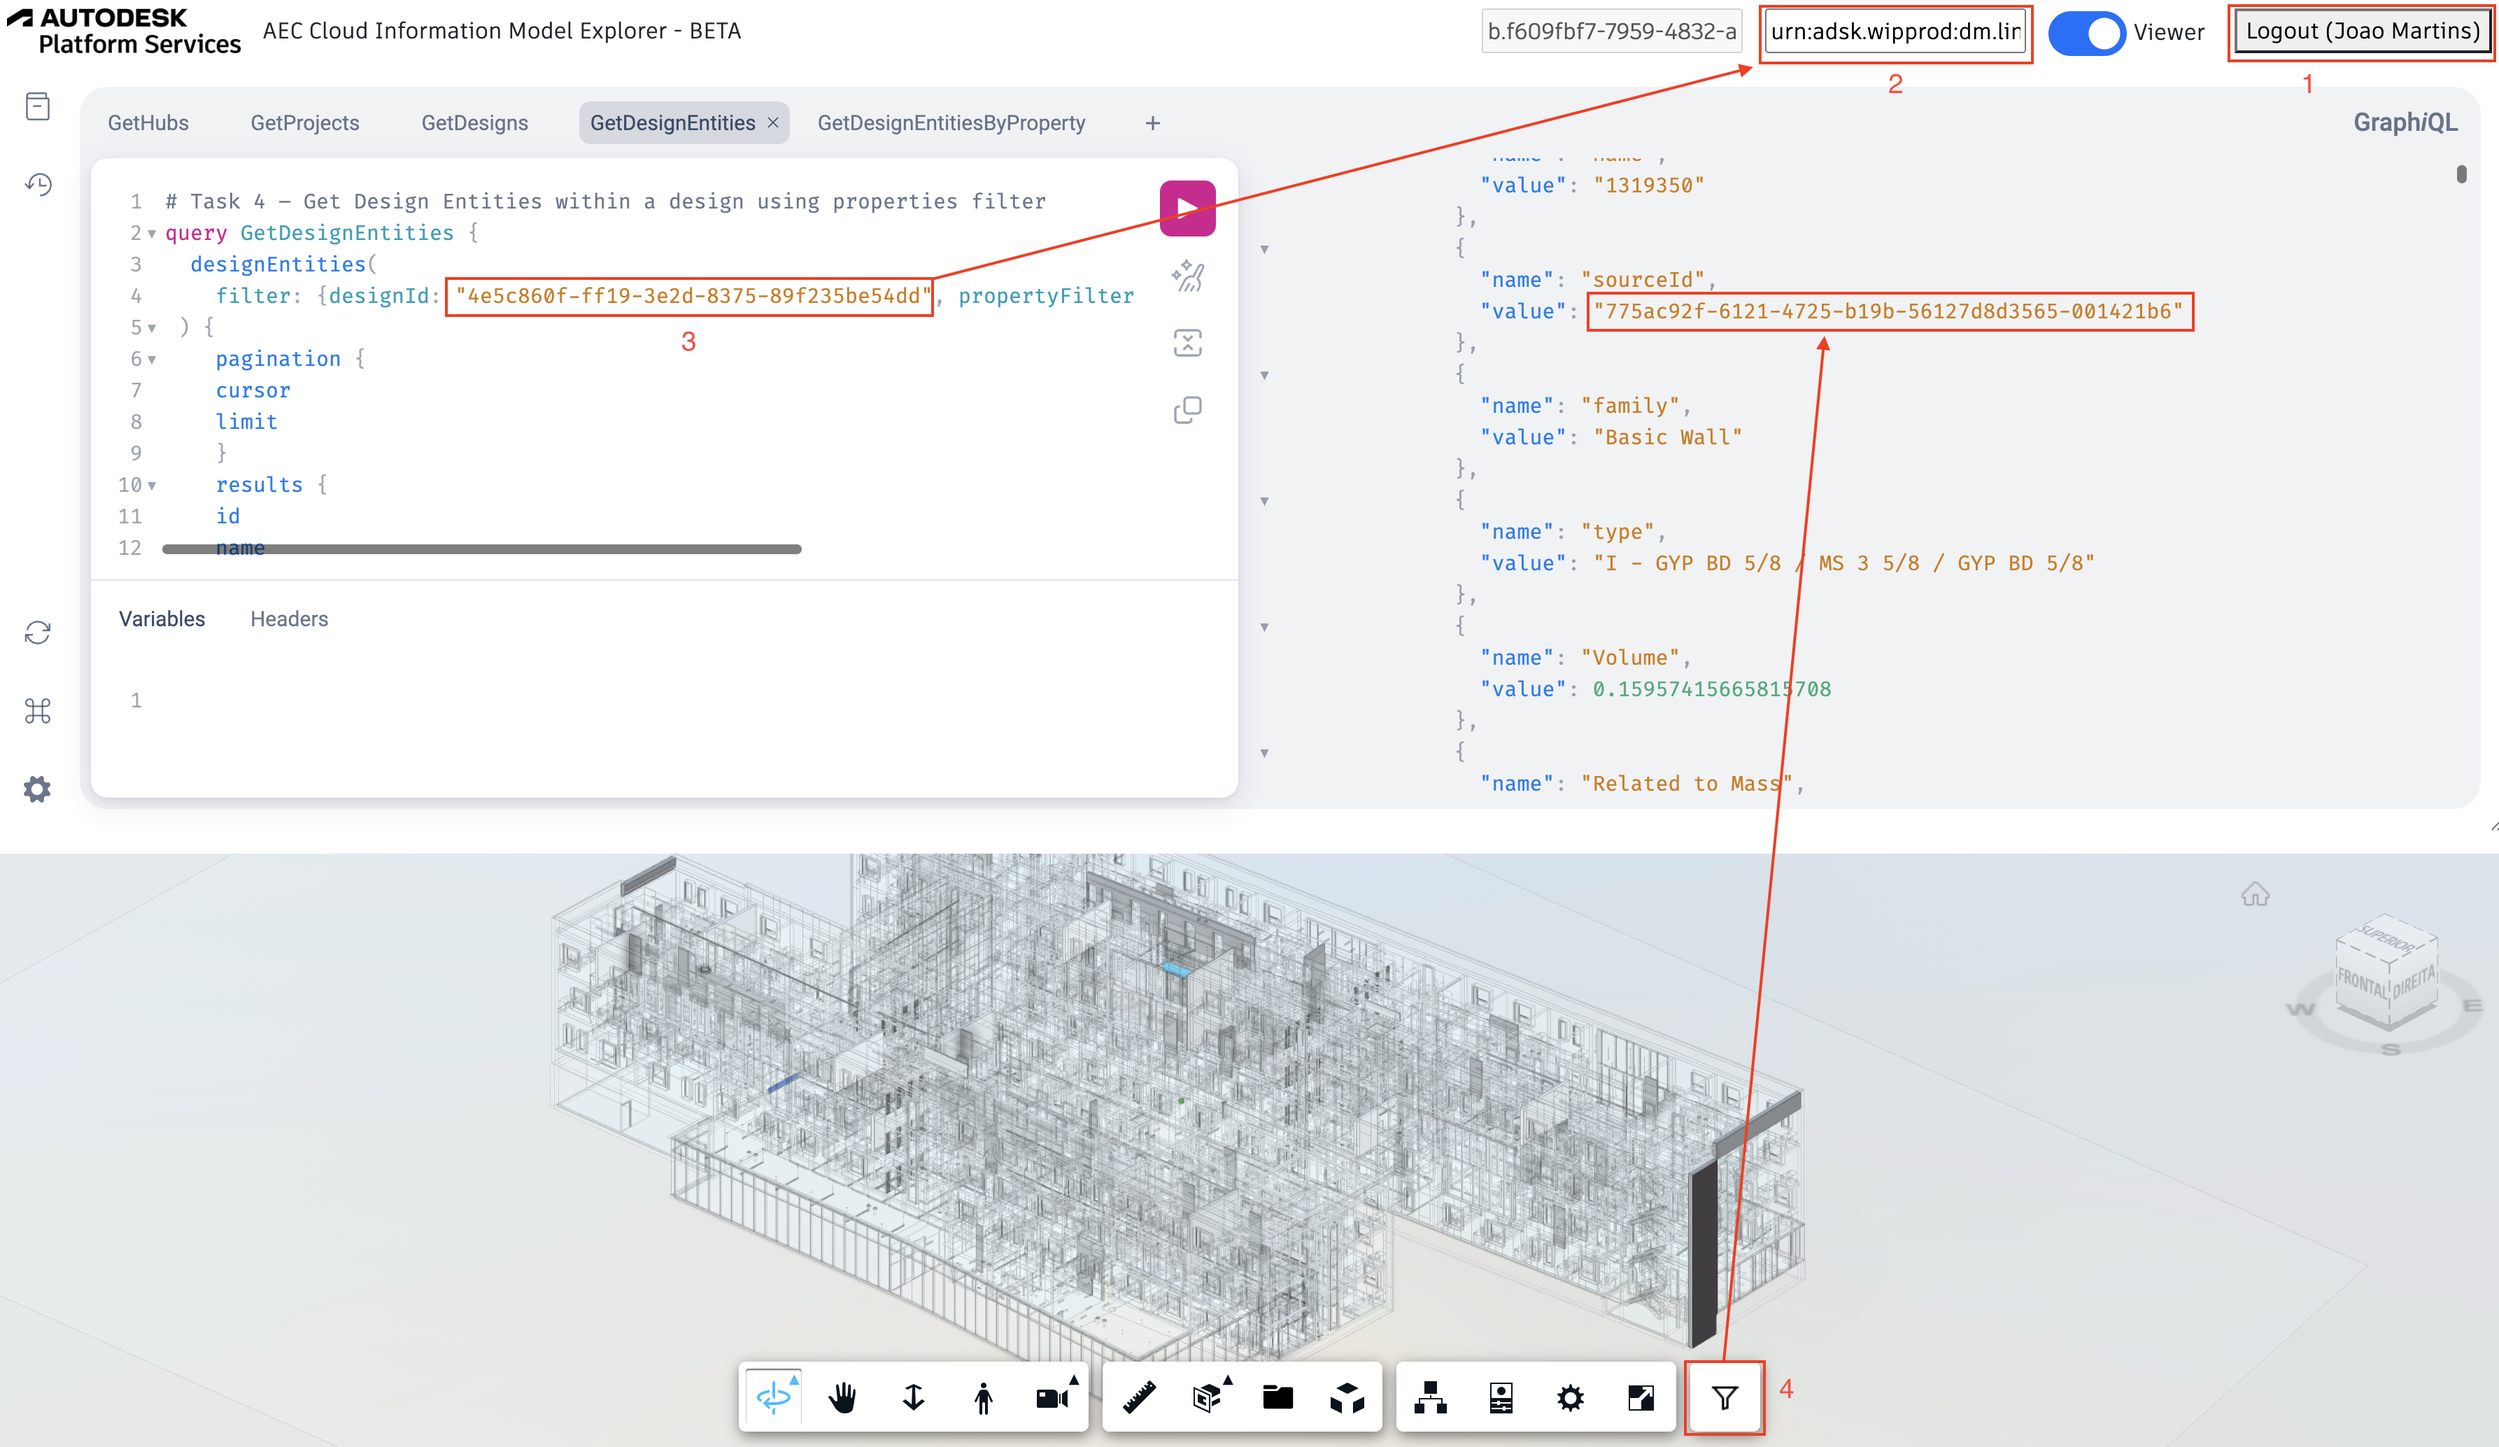
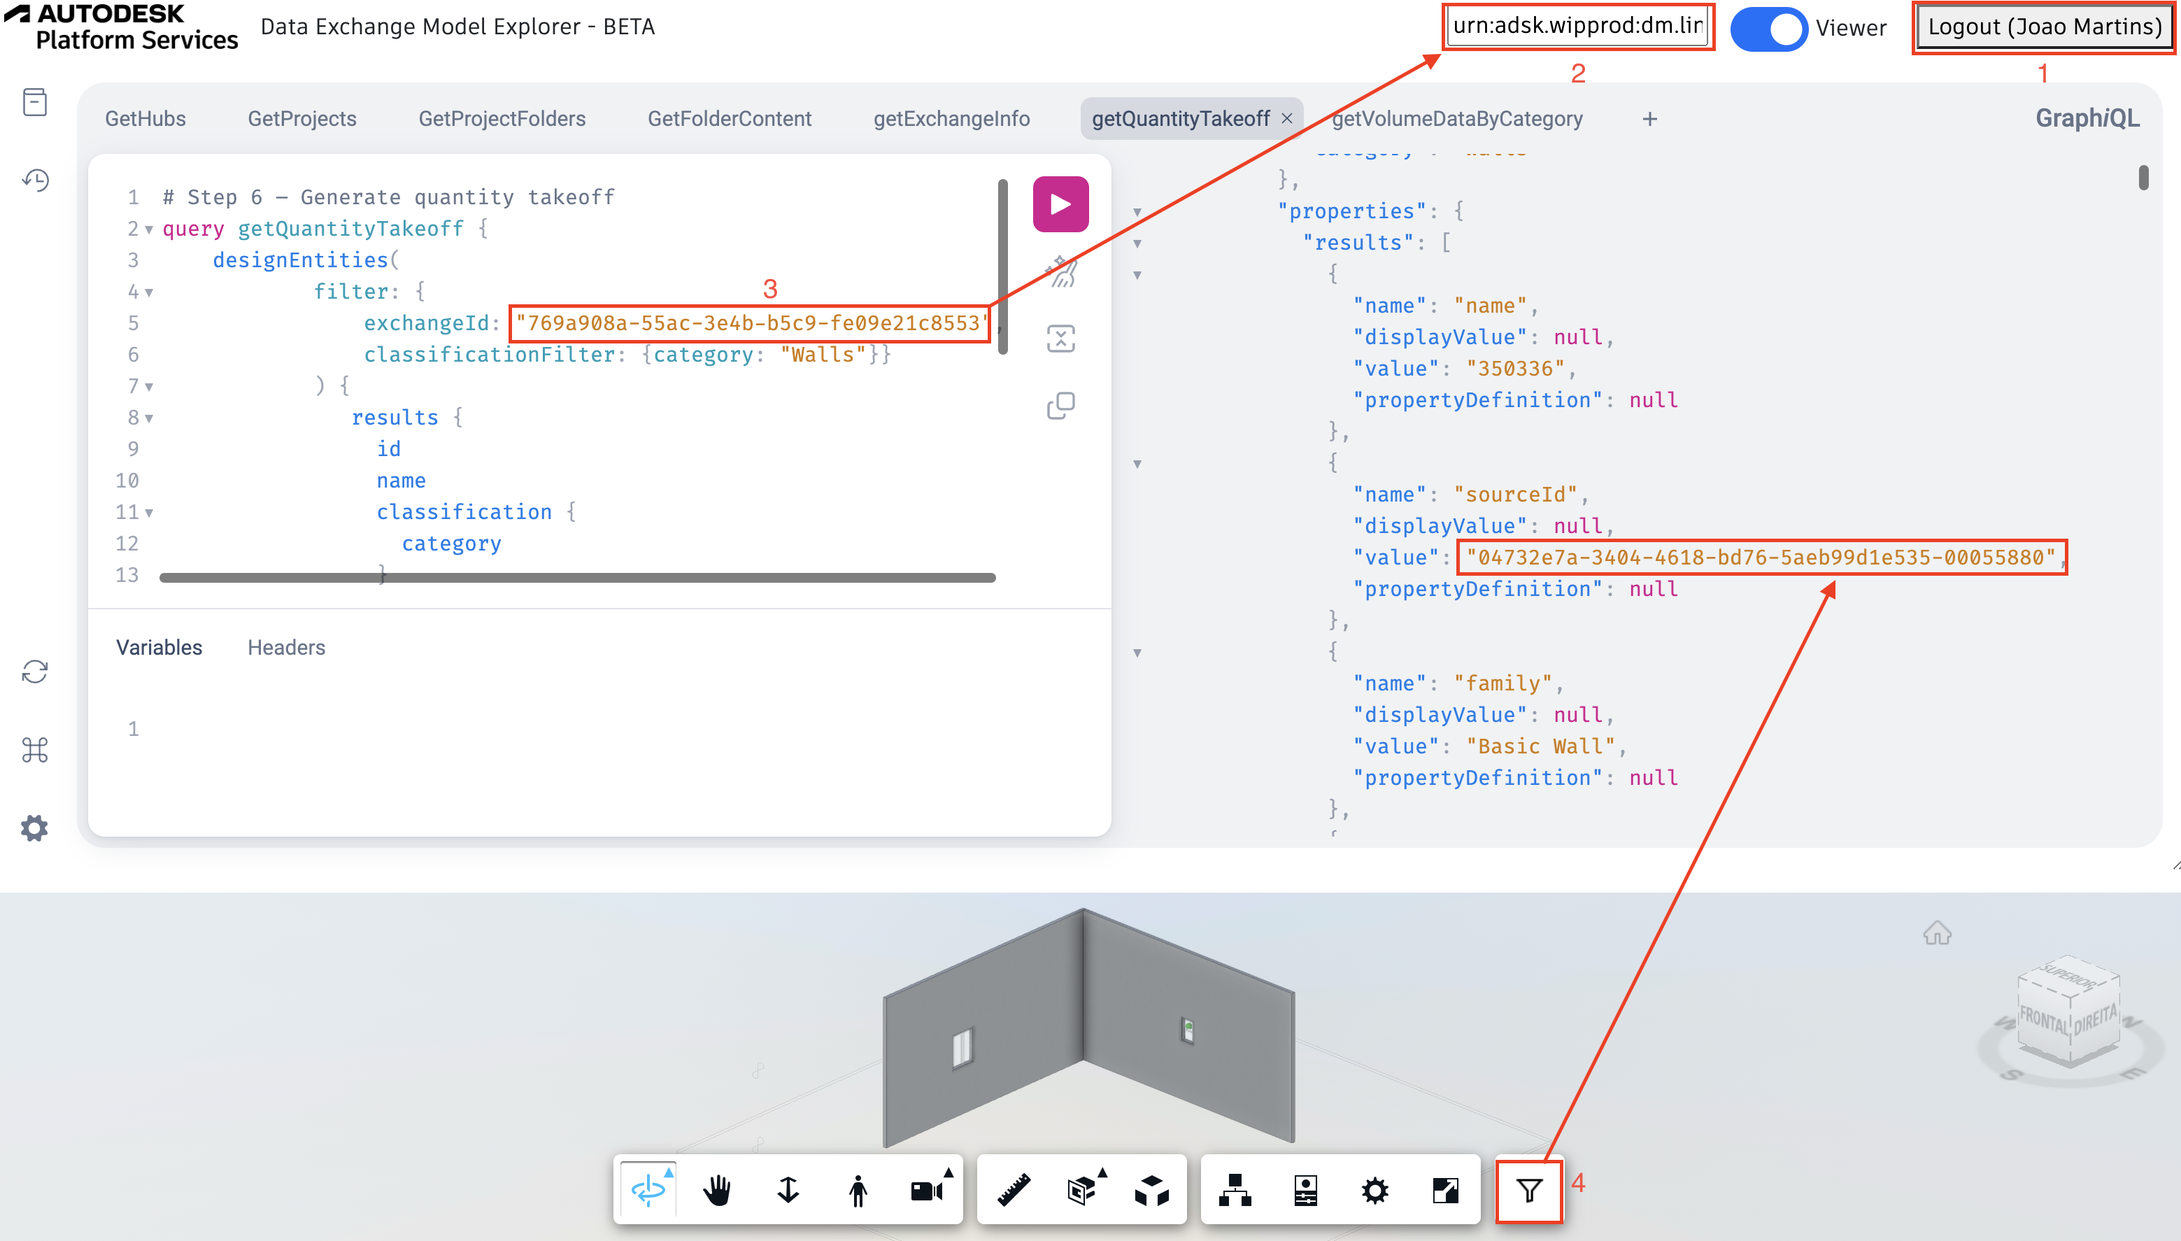
update images

diff --git a/README.md b/README.md
@@ -16,11 +16,10 @@ It also integrates with the Viewer in order contextualize the query results.
   "APS_CALLBACK_URL": "http://localhost:8080/api/auth/callback"
 }
 ```
+
 **Make sure your APS app also uses the same callback url!**
 
 ## Running the app
-
-
 
 As instructed in the console, you'll need to open a web browser and navigate to http://localhost:8080 in order to log into your Autodesk account
 
@@ -44,19 +43,25 @@ Viewer is controlled by the toggle switch in the header. It will load the model 
 
 ---
 
+## Known issues
+
+1. The Viewer might have some trouble on resizing on Safari. Please use it with Chrome or Edge.
+
 ## Tips & Tricks
 
 ![Tips](./readme/Tips.png)
 
 1. **You need to be logged in order to use any feature in this sample.**
-2. **Item/Version id field accepts id of a version or an item. If you specify an item, it'll automatically load the latest version**
-3. **Make sure the designId and Item/Version Id are related to the same model.**
+2. **Exchange URN field accepts URN of an exchange. From there, it'll load the view in the Viewer based on the exchange's contract**
+3. **Make sure the Exchange Id and URN are related to the same exchange.**
 4. **The filter extension looks for source ids in the last query response, then look for externalIds in the loaded model to isolate them.**
 
 ## Troubleshooting
 
-1. **Cannot load viewer**: Make sure you're logged in and using a valid Item/Version Id.
+1. **Cannot load viewer**: Make sure you're logged in and using a valid exchange Id.
 
-2. **Filter Extension doesn't highlight elements**: Make sure you're using the Item/Version Id compatible with the designid used in the queries.
+2. **Filter Extension doesn't highlight elements**: Make sure you're using the exchange urn compatible with the exchange id used in the queries.
 
-3. **Can't change project id**: ProjectId input is fixed for this beta, since it only works for this project.
+## Written by
+
+João Martins [@JooPaulodeOrne2](http://twitter.com/JooPaulodeOrne2), [Developer Advocate and Support](http://aps.autodesk.com)
